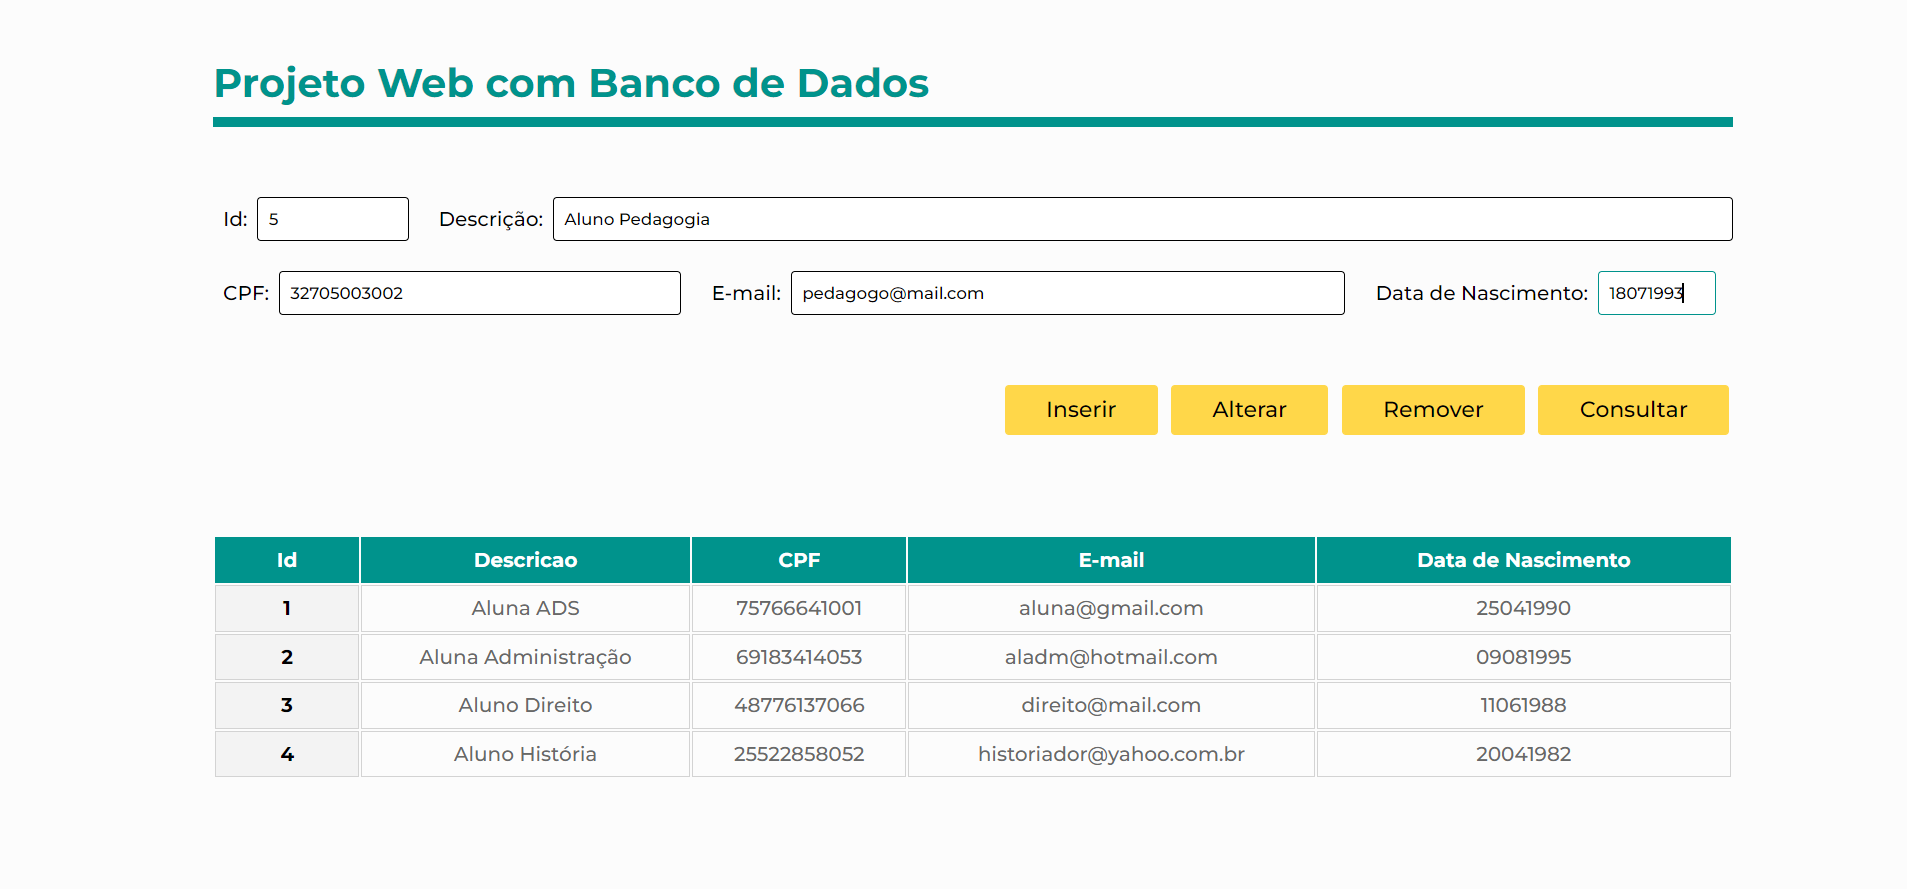
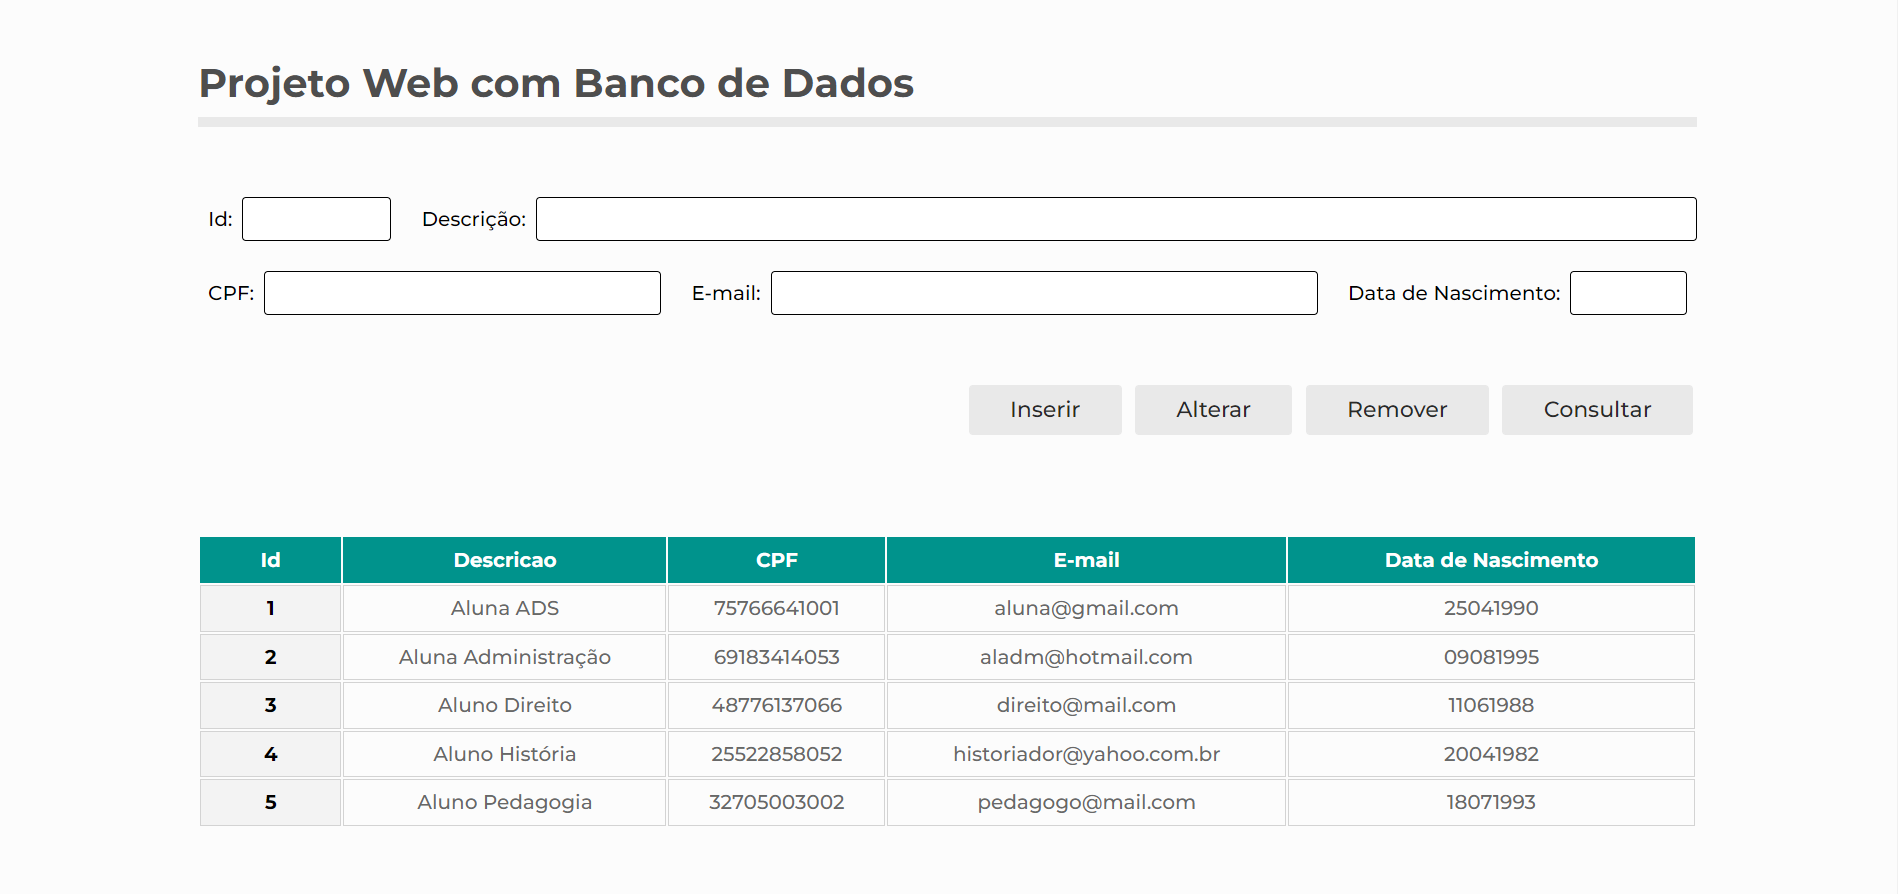
add projeto web com banco de dados

diff --git a/3-o-periodo/A.P.S-Arquitetura-e-Projeto-de-Software/NewProjetoWeb_AnaPriscilla/build/web/css/style.css b/3-o-periodo/A.P.S-Arquitetura-e-Projeto-de-Software/NewProjetoWeb_AnaPriscilla/build/web/css/style.css
@@ -15,15 +15,15 @@ body {
 }
 
 h1 {
-    margin: 0 0 1.5rem 1rem;
-    border-bottom: 8px solid #00938c;
+    margin-bottom: 1.5rem;
+    border-bottom: 8px solid rgb(233,233,233);
     padding-bottom: .5rem;
-    color: #00938c;
+    color: #4e4e4e;
     width: 100%;
 }
 
 form {
-    padding: 2rem 1rem;
+    padding: 2rem 0;
     width: 100%;
 }
 
@@ -99,15 +99,17 @@ th {
     padding: .5rem 2rem;
     cursor: pointer;
     margin: 0 .2rem;
-    background-color: #ffd749;
-    border: 1px solid #ffd749;
+    background-color: rgb(233,233,233);
+    border: 1px solid rgb(233,233,233);
+    color: #292929;
     font-size: 1.1rem;
     border-radius: .2rem;
 }
 
 .botoes button:hover {
-     background-color: #ffe457;
-    border: 1px solid #ffe457;
+    background-color: #4e4e4e;
+    border: 1px solid #4e4e4e;
+    color: #fefefe;
 }
 
 td {

diff --git a/3-o-periodo/A.P.S-Arquitetura-e-Projeto-de-Software/NewProjetoWeb_AnaPriscilla/web/css/style.css b/3-o-periodo/A.P.S-Arquitetura-e-Projeto-de-Software/NewProjetoWeb_AnaPriscilla/web/css/style.css
@@ -15,15 +15,15 @@ body {
 }
 
 h1 {
-    margin: 0 0 1.5rem 1rem;
-    border-bottom: 8px solid #00938c;
+    margin-bottom: 1.5rem;
+    border-bottom: 8px solid rgb(233,233,233);
     padding-bottom: .5rem;
-    color: #00938c;
+    color: #4e4e4e;
     width: 100%;
 }
 
 form {
-    padding: 2rem 1rem;
+    padding: 2rem 0;
     width: 100%;
 }
 
@@ -99,15 +99,17 @@ th {
     padding: .5rem 2rem;
     cursor: pointer;
     margin: 0 .2rem;
-    background-color: #ffd749;
-    border: 1px solid #ffd749;
+    background-color: rgb(233,233,233);
+    border: 1px solid rgb(233,233,233);
+    color: #292929;
     font-size: 1.1rem;
     border-radius: .2rem;
 }
 
 .botoes button:hover {
-     background-color: #ffe457;
-    border: 1px solid #ffe457;
+    background-color: #4e4e4e;
+    border: 1px solid #4e4e4e;
+    color: #fefefe;
 }
 
 td {
